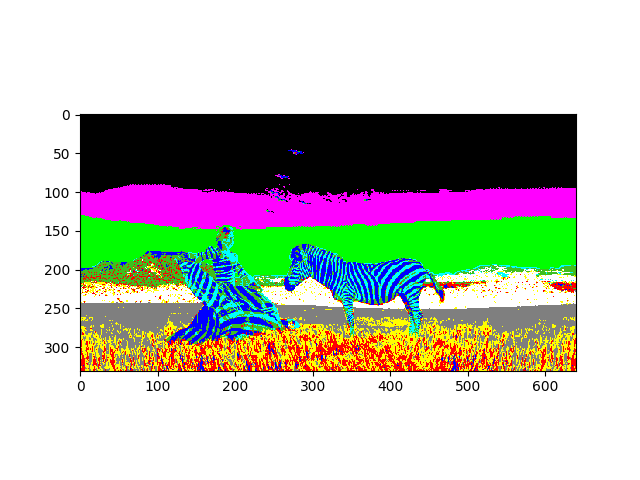
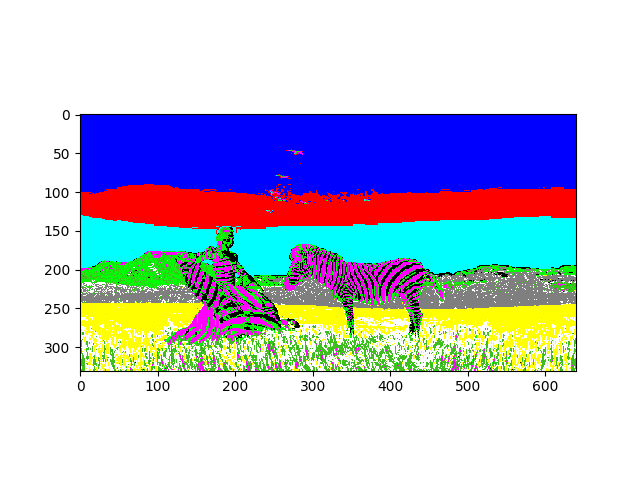
fj

diff --git a/hw2/problem3/main.py b/hw2/problem3/main.py
@@ -1,0 +1,113 @@
+
+from util import Datamanager
+import numpy as np
+import os
+import matplotlib.pyplot as plt
+from mpl_toolkits.mplot3d import Axes3D
+assert np and os and plt and Axes3D
+
+dm=Datamanager()
+color=['C0', 'C1', 'C2', 'C3', 'C4', 'C5', 'C6', 'C7', 'C8', 'C9']
+
+###############################################################
+#                    problem 3.1                              #
+###############################################################
+'''
+
+dm.read_image('image','train-10/Forest/image_0003.jpg',mode='rgb')
+dm.surf_detect(dm.data['image'])
+dm.surf_plot(dm.data['image'],'pic/3_1_surf.png')
+
+'''
+###############################################################
+#                    problem 3.2                              #
+###############################################################
+'''
+feature=[]
+for d in os.listdir('train-10'):
+    for f in os.listdir('train-10/{}'.format(d)):
+        dm.read_image('image','train-10/{}/{}'.format(d,f),mode='rgb')
+        feature.append(dm.surf_detect(dm.data['image']))
+feature=np.concatenate(feature,0)
+
+dm.kmeans_construct(feature)
+y=dm.kmeans.labels_
+dm.pca_construct(feature,3)
+x=dm.pca_transform(feature)
+#print(x,y)
+#print(x.shape,y.shape)
+y_center=np.arange(6)
+x_center=dm.pca_transform(dm.kmeans.cluster_centers_[:6])
+#print(x_center,y_center)
+#rint(x_center.shape,y_center.shape)
+
+
+fig = plt.figure()
+ax = Axes3D(fig)
+for i in range(len(x)):
+    if y[i]<6:
+        ax.scatter(x[i,0],x[i,1],x[i,2],s=3,c=color[y[i]])
+for i in range(len(x_center)):
+    ax.scatter(x_center[i,0],x_center[i,1],x_center[i,2],s=10,c=color[y_center[i]])
+plt.savefig('pic/3_2pca_cluster.png')
+
+'''
+###############################################################
+#                    problem 3.3                              #
+###############################################################
+'''
+feature=[]
+for d in os.listdir('train-10'):
+    for f in os.listdir('train-10/{}'.format(d)):
+        dm.read_image('image','train-10/{}/{}'.format(d,f),mode='rgb')
+        feature.append(dm.surf_detect(dm.data['image']))
+feature=np.concatenate(feature,0)
+dm.kmeans_construct(feature)
+
+dm.read_image('image','train-10/Forest/image_0003.jpg',mode='rgb')
+mode=[('soft','max'),('soft','sum'),('hard','sum')]
+for  i in mode:
+    assign_=dm.kmeans_assign(dm.surf_detect(dm.data['image']),mode=i[0])
+    #print(assign_.shape)
+    emb=dm.pooling(assign_,mode=i[1])
+    #print(emb.shape)
+    dm.plot_bar(emb,'pic/3_3_histogram_{}_{}.png'.format(i[0],i[1]))
+'''
+###############################################################
+#                    problem 3.3                              #
+###############################################################
+
+train_dir='train-100'
+test_dir='test-100'
+train_dir_list=os.listdir(train_dir)
+test_dir_list=os.listdir(test_dir)
+train_x=[]
+train_y=[]
+for i in range(len(train_dir_list)):
+    for f in os.listdir('{}/{}'.format(train_dir,train_dir_list[i])):
+        dm.read_image('image','{}/{}/{}'.format(train_dir,train_dir_list[i],f),mode='rgb')
+        train_y.append(i)
+        train_x.append(dm.surf_detect(dm.data['image']))
+train_y=np.array(train_y)
+train_x=np.array(train_x)
+feature=np.concatenate(train_x,0)
+dm.kmeans_construct(feature)
+
+test_x=[]
+test_y=[]
+for i in range(len(test_dir_list)):
+    for f in os.listdir('{}/{}'.format(test_dir,test_dir_list[i])):
+        dm.read_image('image','{}/{}/{}'.format(test_dir,test_dir_list[i],f),mode='rgb')
+        test_x.append(dm.surf_detect(dm.data['image']))
+        test_y.append(i)
+
+mode=[('soft','max'),('hard','sum'),('soft','sum')]
+for m in mode:
+    train_x_emb=np.array([dm.embedding(i,m) for i in train_x])
+    dm.KNN_construct(train_x_emb,train_y,len(train_dir))
+
+    pred=np.array([dm.KNN_predict([dm.embedding(i,m)])[0] for i in test_x])
+    correct=(test_y==pred).sum()
+    print('Mode {} {} | Accuracy: {}%'.format(m[0],m[1],100.*correct/len(pred)))
+
+

diff --git a/hw2/problem3/util.py b/hw2/problem3/util.py
@@ -1,0 +1,95 @@
+
+#from PIL import Image
+from skimage import  color
+import numpy as np
+from sklearn.decomposition import PCA
+from sklearn.cluster import KMeans
+from scipy.signal   import correlate2d
+from scipy.misc     import imread
+from scipy import io 
+from sklearn.preprocessing import OneHotEncoder
+from sklearn.neighbors import KNeighborsClassifier
+import matplotlib.pyplot as plt
+import cv2
+assert KMeans and np and color and correlate2d and io and imread and OneHotEncoder and KNeighborsClassifier
+
+class Datamanager:
+    def __init__(self):
+        self.data={}
+    def read_image(self,name,path,mode):
+        if mode=='rgb':
+            self.data[name]=imread( path )
+        elif mode=='lab':
+            rgb = imread( path )
+            self.data[name]= color.rgb2lab(rgb)
+        elif mode=='L':
+            self.data[name]= imread( path ,mode='L')
+        else: raise ValueError('Wrong mode.')
+    def read_mat(self,name,path):
+        res=io.loadmat(path)
+        self.data[name]=res['F']
+    def correlate(self,x,y):
+        return correlate2d(x,y,mode='same',boundary='symm')
+    def pca_construct(self,data,n):
+        pca = PCA(n_components=n)
+        pca.fit(data)
+        self.pca=pca
+    def pca_transform(self,data):
+        return self.pca.transform(data)
+    def kmeans_construct(self,data,n=50,max_iter=500):
+        self.kmeans= KMeans(n_clusters=n, random_state=0,max_iter=max_iter).fit(data)
+    def kmeans_assign(self,data,mode):
+        if mode=='hard':
+            c=self.kmeans.predict(data).reshape((-1,1))
+            enc = OneHotEncoder(50,sparse=False).fit(c)
+            res=enc.transform(c)
+            return res
+        elif mode=='soft':
+            c=self.kmeans.transform(data)
+            return c
+        else: raise ValueError('Wrong mode.')
+    def KNN_construct(self,x,y,n):
+        neigh = KNeighborsClassifier(n_neighbors=n)
+        neigh.fit(x, y) 
+        self.knn=neigh
+    def KNN_predict(self,x):
+        return self.knn.predict(x)
+    def pooling(self,data,mode):
+        if mode=='sum':
+            res=np.sum(data,0)
+            res/=np.std(res)
+            return res
+        elif mode=='max':
+            return np.max(data,0)
+        else: raise ValueError('Wrong mode.')
+    def surf_detect(self,data):
+        surf = cv2.xfeatures2d.SURF_create()
+        self.surf= surf
+        kp, des = surf.detectAndCompute(data,None)
+        return des
+    def surf_plot(self,image,path):
+        surf=self.surf
+        kp= surf.detect(image,None)[:30]
+        img2 = cv2.drawKeypoints(image,kp,None,(255,0,0),4)
+        self.plot(img2,path)
+    def plot_scatter(self,data,path):
+        data=data.astype(np.uint8)
+        plt.imshow(data)
+        #plt.show()
+        plt.savefig(path)
+    def plot_bar(self,data,path):
+        plt.figure()
+        x=np.arange(data.shape[0])
+        plt.bar(x, data, facecolor='#9999ff', edgecolor='white')
+        for x, y in zip(x, data):
+            # ha: horizontal alignment
+            # va: vertical alignment
+            plt.text(x + 0.25, y + 0.01, '%.2f' % y,ha='center', va='bottom',size=8) 
+        #plt.show()
+        plt.savefig(path)
+    def embedding(self,points,mode):
+        assign_=self.kmeans_assign(points,mode=mode[0])
+        #print(assign_.shape)
+        emb=self.pooling(assign_,mode=mode[1])
+        #print(emb.shape)
+        return emb

diff --git a/hw2/problem2/main.py b/hw2/problem2/main.py
@@ -14,16 +14,39 @@ color=[[0,0,0],[255,0,0],[0,255,0],[0,0,255],
 '''
 for i in ['zebra','mountain']:
     dm.read_image('image','{}.jpg'.format(i),mode='rgb')
-    dm.kmeans_cluster(dm.image.reshape((-1,3)))
-    image=np.array([color[dm.kmeans.labels_[i]] for i in range(len(dm.kmeans.labels_))]).reshape(dm.image.shape[0],dm.image.shape[1],-1)
+    dm.kmeans('kmeans',dm.data['image'].reshape((-1,3)))
+    image=np.array([color[dm.data['kmeans'].labels_[i]] for i in range(len(dm.data['kmeans'].labels_))]).reshape((dm.data['image'].shape[0],dm.data['image'].shape[1],-1))
     dm.plot(image,'pic/{}_rgb.png'.format(i))
 
     dm.read_image('image','{}.jpg'.format(i),mode='lab')
-    dm.kmeans_cluster(dm.image.reshape((-1,3)))
-    image=np.array([color[dm.kmeans.labels_[i]] for i in range(len(dm.kmeans.labels_))]).reshape(dm.image.shape[0],dm.image.shape[1],-1)
+    dm.kmeans('kmeans',dm.data['image'].reshape((-1,3)))
+    image=np.array([color[dm.data['kmeans'].labels_[i]] for i in range(len(dm.data['kmeans'].labels_))]).reshape((dm.data['image'].shape[0],dm.data['image'].shape[1],-1))
     dm.plot(image,'pic/{}_lab.png'.format(i))
 
+for j in ['zebra','mountain']:
+    dm.read_image('image','{}.jpg'.format(j),mode='L')
+    dm.read_mat('filter','filterBank.mat')
+    feature=[]
+    for i in range(dm.data['filter'].shape[2]):
+        im=dm.correlate(dm.data['image'],dm.data['filter'][:,:,i])
+        feature.append(im)
+    feature=np.array(feature).reshape((dm.data['filter'].shape[2],-1)).T
+    dm.kmeans('kmeans',feature,n=6)
+    image=np.array([color[dm.data['kmeans'].labels_[i]] for i in range(len(dm.data['kmeans'].labels_))]).reshape((dm.data['image'].shape[0],dm.data['image'].shape[1],-1))
+    dm.plot(image,'pic/{}_texture.png'.format(j))
+
+    dm.read_image('image_rgb','{}.jpg'.format(j),mode='rgb')
+    image=dm.data['image_rgb'].reshape(-1,3)
+    feature=np.concatenate((feature,image),1)
+    dm.kmeans('kmeans',feature,n=6)
+    image=np.array([color[dm.data['kmeans'].labels_[i]] for i in range(len(dm.data['kmeans'].labels_))]).reshape((dm.data['image'].shape[0],dm.data['image'].shape[1],-1))
+    dm.plot(image,'pic/{}_texture_rgb.png'.format(j))
 '''
 ###############################################################
 #                    problem 2.2                              #
 ###############################################################
+
+dm.read_image('image','{}.jpg'.format('zebra'),mode='rgb')
+dm.surf('surf',dm.data['image'])
+dm.surf_plot('surf',dm.data['image'])
+

diff --git a/hw2/problem2/util.py b/hw2/problem2/util.py
@@ -1,26 +1,48 @@
 
 #from PIL import Image
-from skimage import io, color
+from skimage import  color
 import numpy as np
 from sklearn.cluster import KMeans
+from scipy.signal   import correlate2d
+from scipy.misc     import imread
+from scipy import io 
 import matplotlib.pyplot as plt
-assert KMeans and np and color
+import cv2
+assert KMeans and np and color and correlate2d and io and imread
 
 class Datamanager:
     def __init__(self):
         self.data={}
     def read_image(self,name,path,mode):
-        rgb = io.imread( path )
         if mode=='rgb':
-            self.image=rgb
+            self.data[name]=imread( path )
         elif mode=='lab':
-            self.image= color.rgb2lab(rgb)
+            rgb = imread( path )
+            self.data[name]= color.rgb2lab(rgb)
+        elif mode=='L':
+            self.data[name]= imread( path ,mode='L')
         else: raise ValueError('Wrong mode.')
-
-    def kmeans_cluster(self,data,n=10,max_iter=1000):
-        self.kmeans = KMeans(n_clusters=n, random_state=0,max_iter=max_iter).fit(data)
+    def read_mat(self,name,path):
+        res=io.loadmat(path)
+        self.data[name]=res['F']
+    def correlate(self,x,y):
+        return correlate2d(x,y,mode='same',boundary='symm')
+    def kmeans(self,name,data,n=10,max_iter=1000):
+        self.data[name]= KMeans(n_clusters=n, random_state=0,max_iter=max_iter).fit(data)
+    def surf(self,name,data,threshold=10000):
+        surf = cv2.xfeatures2d.SURF_create(threshold)
+        self.data[name]= surf
+        kp, des = surf.detectAndCompute(data,None)
+        return kp,des
+    def surf_plot(self,name,image):
+        surf=self.data[name]
+        kp= surf.detect(image,None)[:30]
+        img2 = cv2.drawKeypoints(image,kp,None,(255,0,0),4)
+        plt.imshow(img2)
+        plt.show()
     def plot(self,data,path):
+        data=data.astype(np.uint8)
         plt.imshow(data)
-        plt.savefig(path)
         #plt.show()
+        plt.savefig(path)
 
